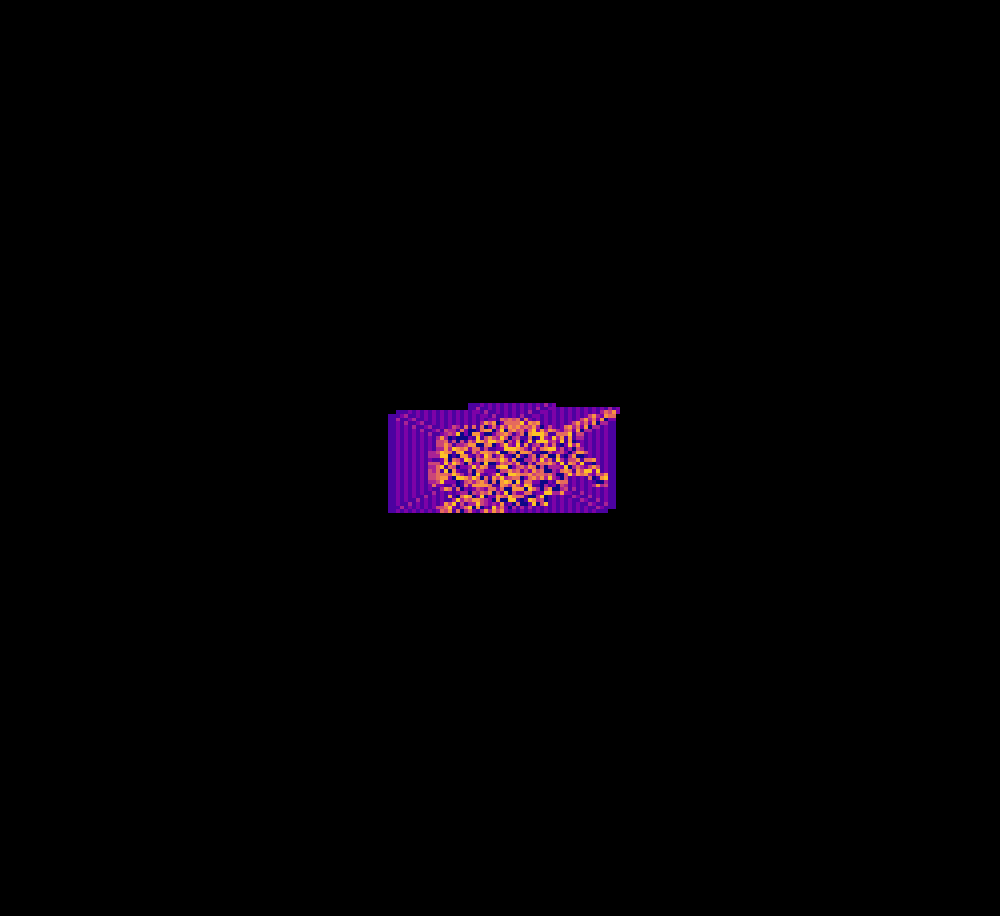
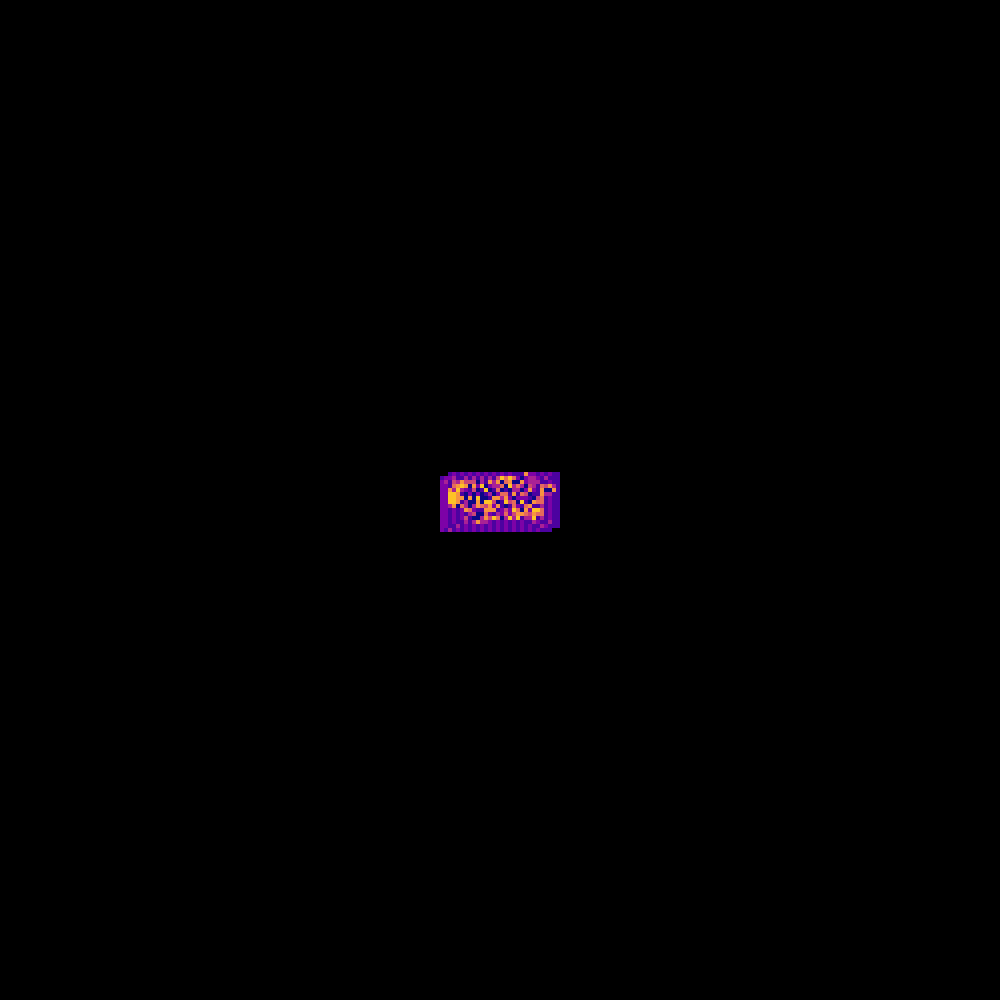
Last working version

Changed region(s): [[0.372, 0.4279, 0.62, 0.5808]]

diff --git a/src/color.hpp b/src/color.hpp
@@ -28,6 +28,7 @@ typedef void (*AntMove)();
 
 enum class MovementDirections
 {
+    NONE = -1,
     LEFT = 0,
     RIGHT = 1,
     FORWARD = 2
@@ -46,7 +47,32 @@ struct Rule
     {
         this->ruleString = std::vector<char>(inRule.begin(), inRule.end());
     };
+    std::unordered_map<char, std::vector<MovementDirections>> ruleToMovementMap;
+
     RuleMessage get_next_move(State inState);
+};
+
+struct SquareRule : public Rule
+{
+    SquareRule(std::string inRule) : Rule(inRule)
+    {
+        this->ruleToMovementMap.insert({'L', {MovementDirections::LEFT}});
+        this->ruleToMovementMap.insert({'R', {MovementDirections::RIGHT}});
+    };
+};
+
+struct HexRule : public Rule
+{
+    HexRule(std::string inRule) : Rule(inRule)
+    {
+        this->ruleToMovementMap.insert({'N', {MovementDirections::NONE}});
+        this->ruleToMovementMap.insert(
+            {'U', {MovementDirections::LEFT, MovementDirections::LEFT, MovementDirections::LEFT}});
+        this->ruleToMovementMap.insert({'L2', {MovementDirections::LEFT, MovementDirections::LEFT}});
+        this->ruleToMovementMap.insert({'L1', {MovementDirections::LEFT}});
+        this->ruleToMovementMap.insert({'R1', {MovementDirections::RIGHT}});
+        this->ruleToMovementMap.insert({'R2', {MovementDirections::RIGHT, MovementDirections::RIGHT}});
+    };
 };
 
 #endif

diff --git a/src/color.cpp b/src/color.cpp
@@ -20,14 +20,7 @@ RuleMessage Rule::get_next_move(State inState)
         nextState = inState.currentState + 1;
     }
     char turnDirection = this->ruleString[inState.currentState];
-    MovementDirections turnEnum;
-    if (turnDirection == 'L')
-    {
-        turnEnum = MovementDirections::LEFT;
-    }
-    else
-    {
-        turnEnum = MovementDirections::RIGHT;
-    }
-    return RuleMessage{.newState = nextState, .movement_commands = {turnEnum, MovementDirections::FORWARD}};
+    std::vector<MovementDirections> turnEnum = this->ruleToMovementMap.at(turnDirection);
+    turnEnum.push_back(MovementDirections::FORWARD);
+    return RuleMessage{.newState = nextState, .movement_commands = turnEnum};
 };

diff --git a/src/main.cpp b/src/main.cpp
@@ -33,7 +33,7 @@ struct SimWorld
 {
     const int world_xSize, world_ySize;
     std::vector<std::vector<State>> simField;
-    Rule moveRule = Rule("LRRRRLLR");
+    Rule moveRule = SquareRule("LRRRRLLR");
     const int colorDepth{4};
     void change_pixel(ColorMessage inMessage);
     sf::Uint8 *pixelDraw;
